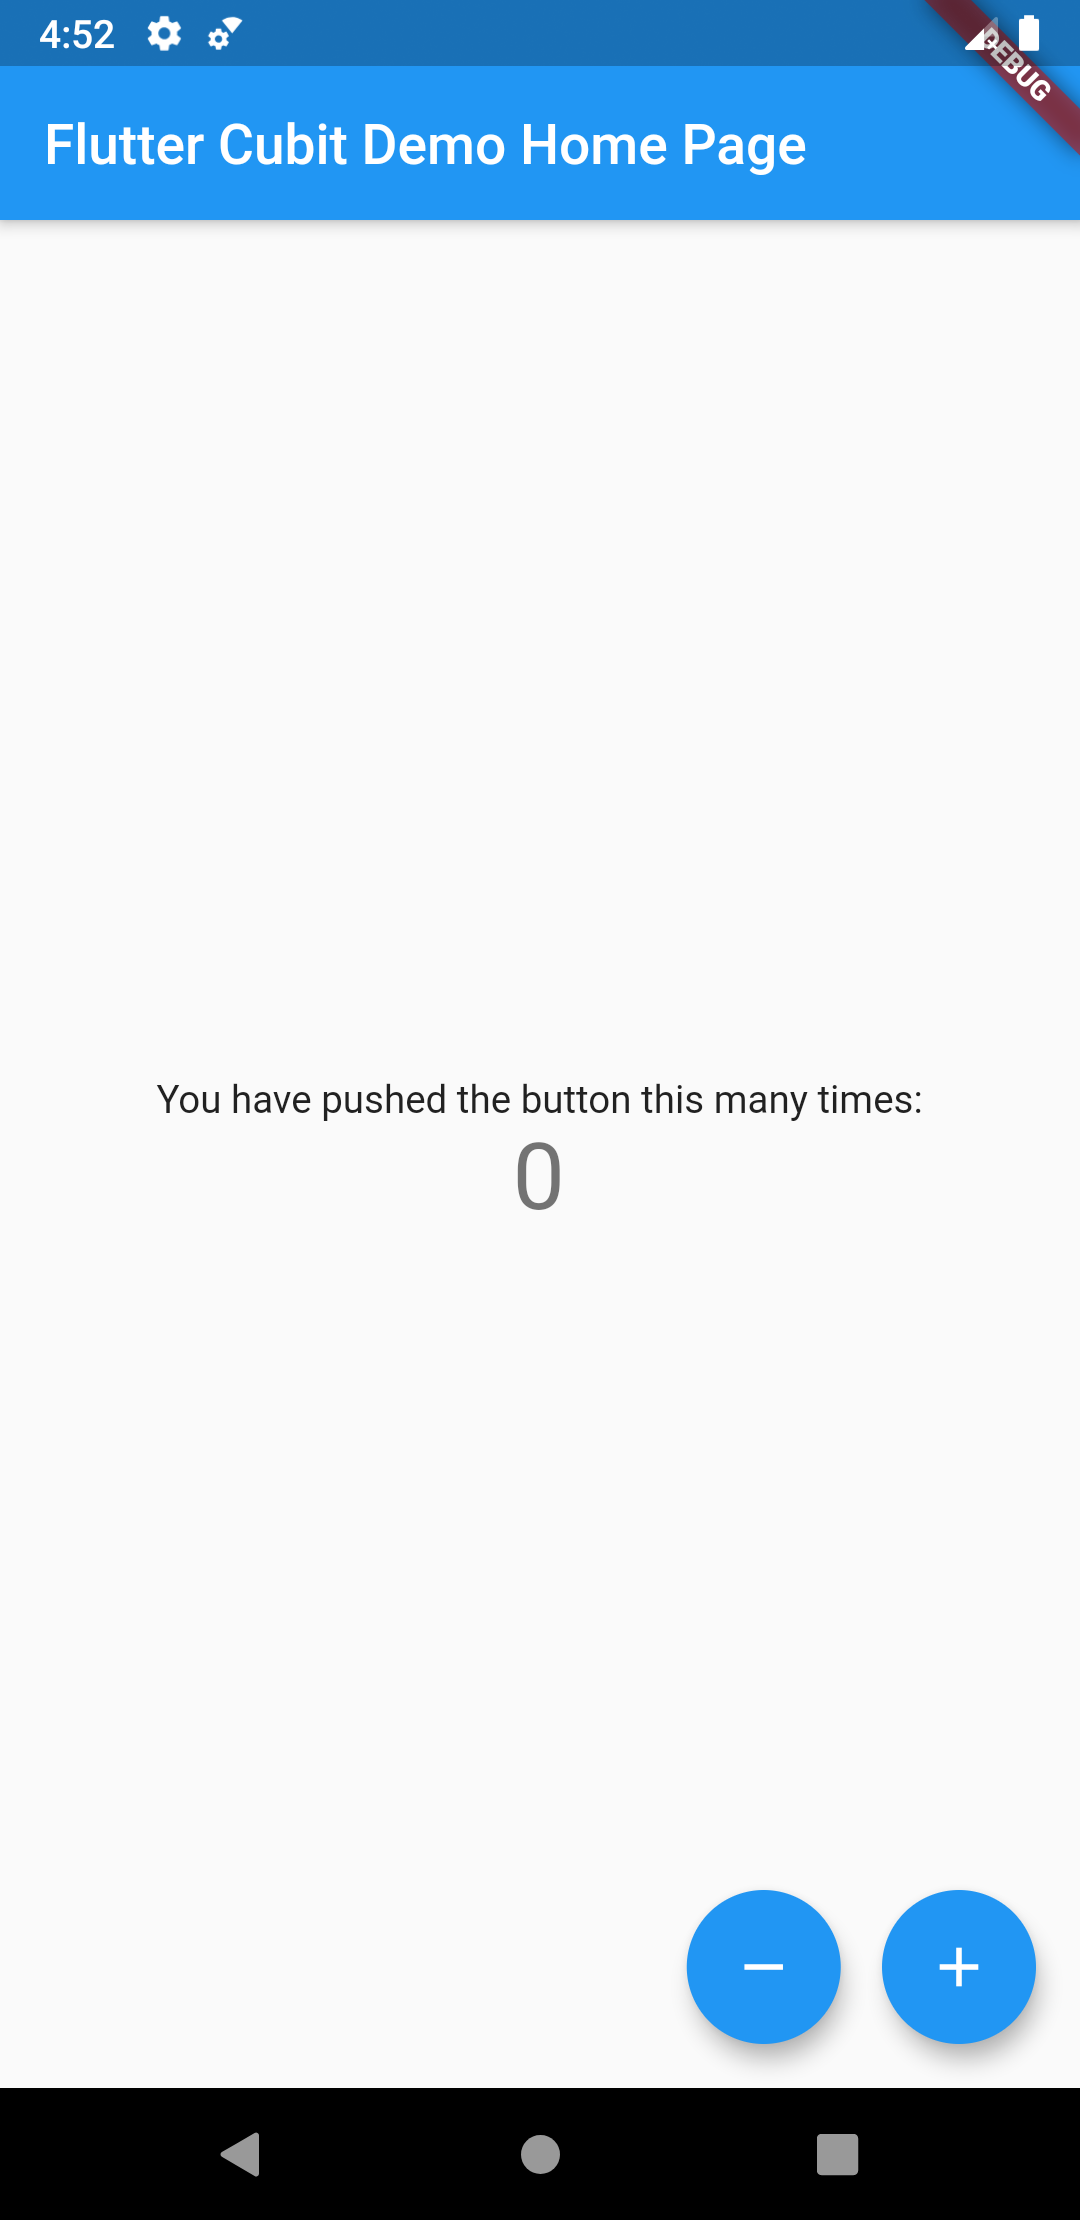
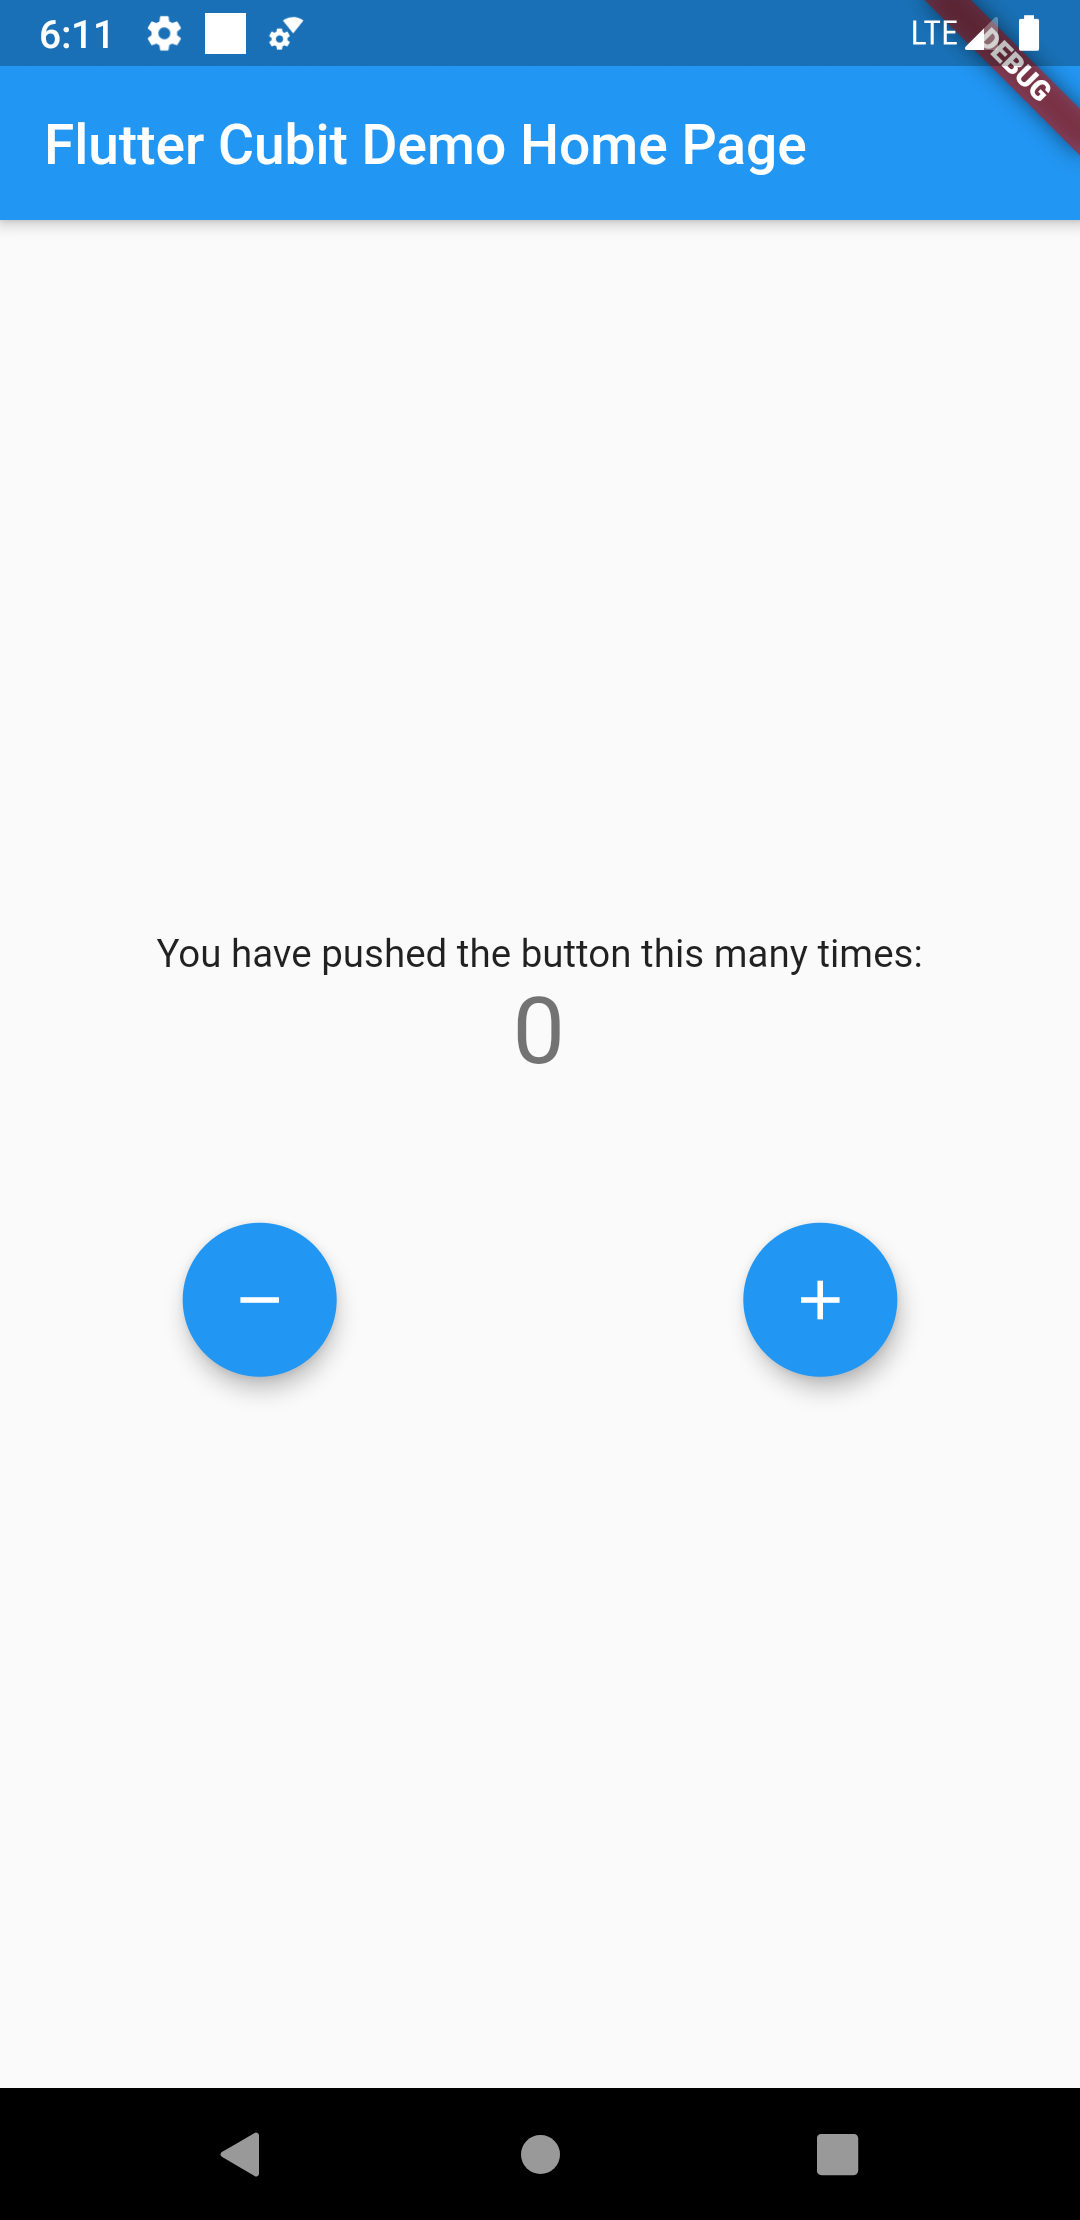
Bloc Consumer
Bloc Consumer

diff --git a/lib/main.dart b/lib/main.dart
@@ -35,56 +35,54 @@ class MyHomePage extends StatefulWidget {
 class _MyHomePageState extends State<MyHomePage> {
   @override
   Widget build(BuildContext context) {
-    return BlocBuilder<CounterCubit, CounterState>(
-      builder: (context, state) {
-        return Scaffold(
-          appBar: AppBar(title: Text(widget.title)),
-          body: BlocListener<CounterCubit, CounterState>(
-            listener: (context, state) {
-              state.wasIncremented == true
-                  ? Scaffold.of(context).showSnackBar(SnackBar(
-                      content: Text("Incremented!"),
-                      duration: Duration(milliseconds: 300),
-                    ))
-                  : Scaffold.of(context).showSnackBar(SnackBar(
-                      content: Text("Decremented!"),
-                      duration: Duration(milliseconds: 300),
-                    ));
-            },
-            child: Center(
-              child: Column(
-                mainAxisAlignment: MainAxisAlignment.center,
-                children: <Widget>[
-                  Text('You have pushed the button this many times:'),
-                  Text(state.counterValue.toString(),
-                      style: Theme.of(context).textTheme.headline4),
-                  SizedBox(height: 50),
-                  Row(
-                    mainAxisAlignment: MainAxisAlignment.spaceEvenly,
-                    children: [
-                      FloatingActionButton(
-                        onPressed: () {
-                          BlocProvider.of<CounterCubit>(context).increment();
-                        },
-                        tooltip: 'Decrement',
-                        child: Icon(Icons.remove),
-                      ),
-                      SizedBox(width: 15),
-                      FloatingActionButton(
-                        onPressed: () {
-                          BlocProvider.of<CounterCubit>(context).decrement();
-                        },
-                        tooltip: 'Increment',
-                        child: Icon(Icons.add),
-                      ),
-                    ],
-                  ),
-                ],
-              ),
+    return Scaffold(
+      appBar: AppBar(title: Text(widget.title)),
+      body: BlocConsumer<CounterCubit, CounterState>(
+        listener: (context, state) {
+          state.wasIncremented == true
+              ? Scaffold.of(context).showSnackBar(SnackBar(
+                  content: Text("Incremented!"),
+                  duration: Duration(milliseconds: 3000),
+                ))
+              : Scaffold.of(context).showSnackBar(SnackBar(
+                  content: Text("Decremented!"),
+                  duration: Duration(milliseconds: 3000),
+                ));
+        },
+        builder: (context, state) {
+          return Center(
+            child: Column(
+              mainAxisAlignment: MainAxisAlignment.center,
+              children: <Widget>[
+                Text('You have pushed the button this many times:'),
+                Text(state.counterValue.toString(),
+                    style: Theme.of(context).textTheme.headline4),
+                SizedBox(height: 50),
+                Row(
+                  mainAxisAlignment: MainAxisAlignment.spaceEvenly,
+                  children: [
+                    FloatingActionButton(
+                      onPressed: () {
+                        BlocProvider.of<CounterCubit>(context).increment();
+                      },
+                      tooltip: 'Decrement',
+                      child: Icon(Icons.remove),
+                    ),
+                    SizedBox(width: 15),
+                    FloatingActionButton(
+                      onPressed: () {
+                        BlocProvider.of<CounterCubit>(context).decrement();
+                      },
+                      tooltip: 'Increment',
+                      child: Icon(Icons.add),
+                    ),
+                  ],
+                ),
+              ],
             ),
-          ),
-        );
-      },
+          );
+        },
+      ),
     );
   }
 }
